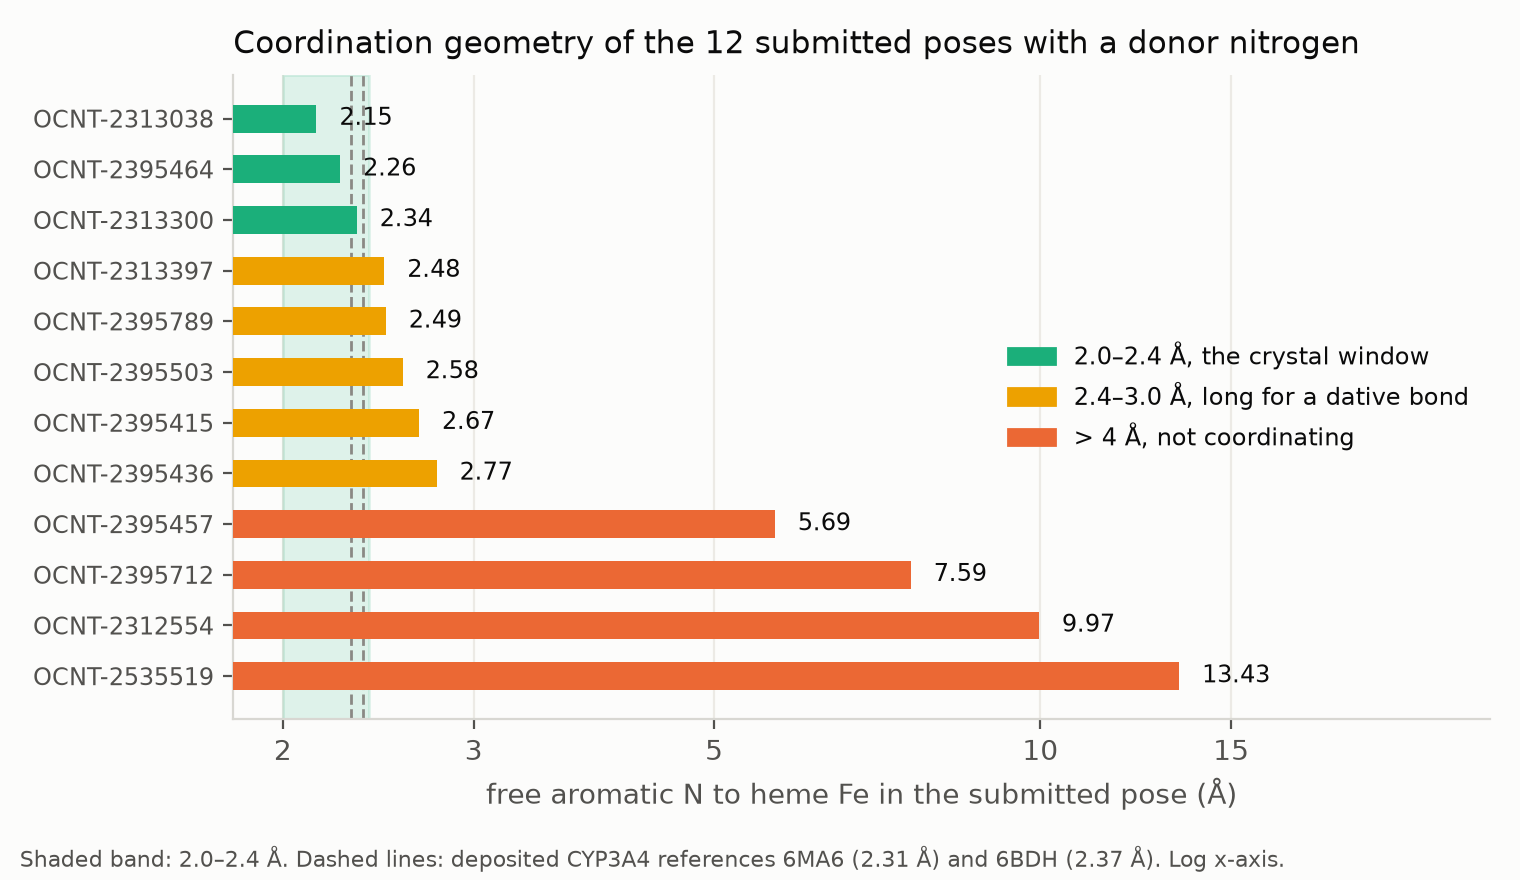
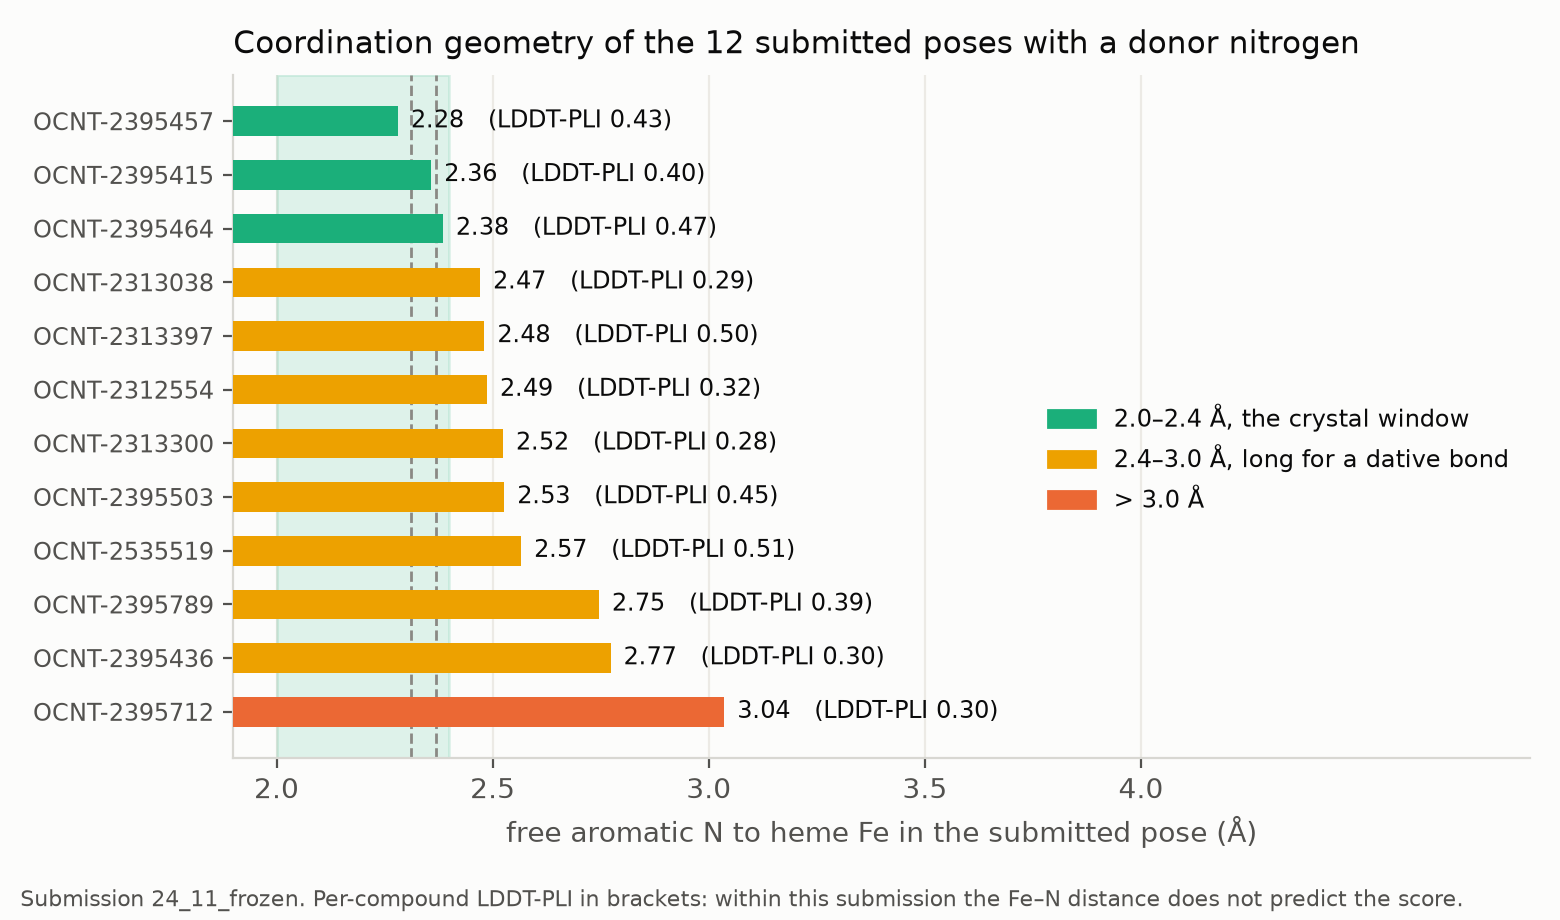
Final leaderboard results for all three tracks
The challenge closed 2026-11-03 and the final boards were released
2026-11-04, restricted to entrants who filed a method report.

  regression      MA-ST-RAE 0.4593   rank 35/103   Tier 9 of 29
  classification  MA-MCC    0.3232   rank 32/62    Tier 3 of 5
  pose            LDDT-PLI  0.3608   rank 34/38    Tier 2 of 4

Where the reports previously quoted 0.4749 and 0.3846, those were the
interim-subset scorings of the same predictions; the final board scores
the full 750-compound test set. Both reports now say so explicitly.

pose.md is updated for the submission that was actually final,
24_11_frozen rather than 24_9_manual: POSIT re-run on 7UFB alone at 50
poses per compound (951 poses), visually selected, with OCNT-2395712
taken from 6MA7. Section 8's residue counts and Fe-N range are
re-measured from the submitted file, and figure 3 is regenerated from it.

New section 10 reports the main finding. Across four submissions from
overlapping pools differing only in selection rule, two independent
rounds of careful visual inspection both scored BELOW an automated
one-line geometric rule:

  24_4_posit_feN  automated Fe-N          0.3939
  24_11_frozen    manual, 951 poses       0.3381 live / 0.3608 final
  24_9_manual     manual, 2346 poses      0.3287
  24_5_prob       POSIT probability       0.2894

Also records per-compound results reconstructed from the head-to-head
endpoint (20 compounds x 38 entrants): rank 1 of 38 on OCNT-2312966, the
[…]

diff --git a/pose.md b/pose.md
@@ -1,6 +1,8 @@
 # CYP3A4 structure prediction — protein–ligand pose
 
-**Submission:** `24_9_manual_structures.zip`
+**Submission:** `24_11_frozen_structures.zip`
+**Final score:** LDDT-PLI **0.3608**, BiSyRMSD 4.4045 Å, LDDT-LP 0.8308, Coverage 1.0 — rank
+**34 / 38**, Tier 2 of 4.
 **Author:** Jamal Shamsara
 
 ---
@@ -156,33 +158,38 @@ ligands), with `7UFB`, `6BDH` and `6DAA` in the good group in 9–10 of 10 folds
 
 ### 6.1 The submitted selection
 
-For the final submission, all 2,346 poses in the three good receptors were inspected
-**visually**, one PyMOL session per receptor, with every pose of every compound presented as a
-state and the measured Fe–N geometry available alongside. The final pose for each compound was
-chosen by eye against the criteria in §7, not by a score.
+The submitted poses come from a final round in which POSIT was re-run on **7UFB alone** at
+**50 poses per compound** for all 20 compounds — 951 poses, correct protonation throughout,
+no Vina. Deeper sampling of one good receptor turned out to beat the whole ten-receptor,
+ten-pose pool for several compounds: `OCNT-2312554` improved from 3.00 Å to 2.49 Å and
+`OCNT-2395436` from 2.76 Å to 2.41 Å, and eleven of twelve donors reached ≤2.49 Å in 7UFB
+alone. The earlier pools were **sampling-limited, not receptor-limited** — a result worth
+stating because multi-receptor ensemble docking is usually motivated by the opposite
+assumption.
+
+Poses were inspected visually in PyMOL. For compounds with a free aromatic nitrogen the
+session showed only poses whose nitrogen lay within 4.0 Å of the iron; for the eight with no
+donor it showed all 50. One compound, `OCNT-2395712`, reached only 7.59 Å in 7UFB across 48
+poses and was re-docked into `6MA6` and `6MA7` — the two receptors whose crystal ligands are
+themselves coordinating azoles — where all nine returned poses came from POSIT's
+template-biased HYBRID engine, the only place in this work where its template machinery
+engaged.
 
 ![Coordination geometry of the submitted poses](figures/fig3_pose_feN.png)
 
 | | |
 |---|---|
-| Receptors used | `7UFB` ×16, `6DAA` ×4 |
-| Engines | POSIT ×19, Vina ×1 |
-| Compounds with a donor N | 12 |
+| Receptors used | `7UFB` ×19, `6MA7` ×1 |
+| Engine | POSIT only |
+| Compounds with a donor N | 12, **all coordinating**, Fe–N 2.28–3.04 Å |
 | …in the 2.0–2.4 Å crystal window | 3 |
-| …within 2.6 Å | 6 |
 
-Four compounds with an available donor nitrogen were deliberately placed non-coordinating
-(5.7–13.4 Å). For two of them (`OCNT-2312554`, `OCNT-2395712`) no pose in the pool reaches the
-crystal window at all — their best is 3.00 Å and 2.74 Å, and the 1,2,3-triazole of the latter
-is the weakest donor class present (triazolium pKa ≈ 1.2 against ≈5.2 for pyridinium). For the
-other two, coordinating poses exist in the pool but were judged, on inspection, to be
-geometrically poor in other respects. This is a departure from the rule validated in §6 and is
-reported as such.
-
-One substitution was made after the manual selection: `OCNT-2313300` state 9 in `7UFB` failed
-PoseBusters' `minimum_distance_to_organic_cofactors` — the ligand pressed into the porphyrin —
-and was replaced by state 5 of the same receptor (Fe–N 2.34 Å), chosen from the
-PoseBusters-clean alternatives.
+Two substitutions were forced by the PoseBusters gate and are recorded in the selection
+sheet. `OCNT-2313300` state 9 in 7UFB pressed into the porphyrin and was replaced by state 5
+(2.34 Å). For `OCNT-2395712`, **eight of its nine poses failed** — every pose shorter than
+3.04 Å reached the iron only by pushing the scaffold into the porphyrin — so the single clean
+pose at 3.04 Å was used. That compound does not properly coordinate, but the reason is steric
+rather than electronic: the scaffold cannot reach the axial site without a violation.
 
 Each chosen pose was recombined with **its own** receptor's protein and heme, never with a
 common reference frame, because a pose generated in one receptor and written into another is
@@ -224,12 +231,12 @@ stacking flat against the porphyrin, which no deposited structure in this panel 
 | Structures present | 20, none missing or unexpected |
 | Protein sequence | **0 mismatches** against UniProt P08684 over the resolved range |
 
-The complexes carry 462 resolved residues (`7UFB`, 16 files) or 450 (`6DAA`, 4 files), numbered
-27–497 — the standard N-terminally truncated CYP3A4 construct — and every resolved residue
-matches UniProt P08684.
+The complexes carry 462 resolved residues (19 files, `7UFB`) or 463 (1 file, `6MA7`),
+numbered 26/27–497 — the standard N-terminally truncated CYP3A4 construct — and every
+resolved residue matches UniProt P08684.
 
-Fe–N contacts at 2.15–2.77 Å pass `minimum_distance_to_inorganic_cofactors` — PoseBusters does
-not treat genuine coordination as a clash.
+Fe–N contacts at 2.28–3.04 Å pass `minimum_distance_to_inorganic_cofactors` — PoseBusters
+does not treat genuine coordination as a clash.
 
 One packaging detail is worth recording for other entrants: the validator reads the ligand
 back and matches it to the expected SMILES with RDKit's
@@ -243,12 +250,90 @@ reproducible.
 
 - The receptor panel is effectively three distinct structures, not ten (§3), which caps what
   multi-receptor docking can contribute.
-- POSIT's template machinery never engaged on these ligands (§5), so most poses come from
-  template-free search — the component of POSIT with the least advantage over any other docking
-  program.
+- POSIT's template machinery barely engaged (§5), so most poses come from template-free
+  search — the component of POSIT with the least advantage over any other docking program.
+  The one exception is instructive: in `6MA6`/`6MA7`, whose crystal ligands are themselves
+  coordinating azoles, every returned pose came from the template-biased HYBRID engine.
 - No deposited CYP3A4 complex contains a nitrile ligand, so nitrile coordination has no
   template and no yardstick. A constructed ideal nitrile pose is sterically feasible in the
   roomier receptors, but no docked pose approaches it; in any case all three nitrile-bearing
   compounds also carry a pyridine nitrogen, which is the better donor, so the question is moot
   for this set.
-- Four compounds depart from the blind-validated coordination rule (§6.1).
+- One compound, `OCNT-2395712`, is submitted non-coordinating at 3.04 Å because its eight
+  shorter poses all fail PoseBusters (§6.1).
+- Selection remained the bottleneck throughout, and the final selection was made by eye —
+  which §10.1 shows was the wrong choice.
+
+
+---
+
+## 10. Final result, and the main finding
+
+**LDDT-PLI 0.3608, rank 34 / 38, Tier 2 of 4.** Coverage 1.0, so no structure was zeroed.
+
+### 10.1 Expert visual selection lost to a one-line geometric rule
+
+Four submissions were made from overlapping pose pools, differing only in how the pose was
+chosen:
+
+| submission | selection rule | LDDT-PLI |
+|---|---|---|
+| `24_4_posit_feN` | **automated: shortest free aromatic N to Fe** | **0.3939** |
+| `24_11_frozen` | manual visual, 951 poses, 7UFB | 0.3381 live / 0.3608 final |
+| `24_9_manual` | manual visual, 2,346 poses, 3 receptors | 0.3287 |
+| `24_5_prob` | POSIT probability alone | 0.2894 |
+
+Two independent rounds of careful visual inspection — by a medicinal chemist, with measured
+Fe–N distances, crystal references and PoseBusters verdicts to hand — both scored **below** a
+rule that fits on one line. This was not the result we expected and it is the most useful
+thing the track produced.
+
+The top and bottom rows form a controlled A/B over the same pose pool with one variable
+changed, isolating coordination geometry at **+0.1045 LDDT-PLI**. We are not aware of many
+prospective, blind tests of a pose-selection heuristic at this granularity.
+
+A caveat on the comparison: `24_4` was scored only on the live board and `24_11` on both, and
+the two scorings differ (`24_11` moved 0.3381 → 0.3608 for an identical file). The ranking of
+the four is robust to that shift, but the exact gap is not.
+
+### 10.2 Per-compound results
+
+The challenge's head-to-head endpoint exposes per-compound LDDT-PLI, so the full
+20 × 38 matrix is reconstructible. We placed in the field's top two on three compounds:
+
+| compound | ours | field median | field best | rank | donor N |
+|---|---|---|---|---|---|
+| `OCNT-2312966` | **0.6183** | 0.2128 | **0.6183** | **1 / 38** | no |
+| `OCNT-2313397` | 0.5048 | 0.4138 | 0.5069 | 2 / 38 | yes, 2.48 Å |
+| `OCNT-2535519` | 0.5082 | 0.3464 | 0.5288 | 2 / 38 | yes, 2.57 Å |
+
+`OCNT-2312966` — the 2-oxindole with no coordinating nitrogen, and the compound the field
+found hardest of all twenty — received the best pose anyone submitted. Three top-two finishes
+against an expectation of 1.05 gives p = 0.085, which is suggestive and not significant.
+
+We were in the bottom decile on five compounds, so there is no class of pose on which we
+outperformed as a group: both we and the field score higher on type-II-capable compounds than
+on the rest, and our margin behind the winner is *larger* on the type-II compounds
+(−0.151) than on the others (−0.077).
+
+### 10.3 A pattern we checked and rejected
+
+Our per-compound percentile correlates at **−0.527 (p = 0.017)** with how well the field did
+on each compound — the most negative value among all 38 entrants, with only 2 of 38 reaching
+significance. The natural reading is that a rigid geometric rule is relatively stronger where
+template-driven methods struggle.
+
+**We do not believe it.** Across entrants, mean score and that correlation are themselves
+related at +0.520 (p = 0.0008): any below-average entrant gets a negative value
+automatically, because scoring flatly ranks better where everyone scores low. Our standard
+deviation across compounds is 4th lowest of 38, but mean and SD correlate at +0.615 across
+entrants and our coefficient of variation is unremarkable. Selecting the most extreme of 38
+entrants also makes p = 0.017 roughly what chance would produce. Reported because the
+analysis was done, and the negative conclusion is the useful part.
+
+### 10.4 Ground truth
+
+The blinded Cryo-EM structures have not been released. The five CYP3A4 cryo-EM entries in the
+PDB (`38FU`, `38FV`, `38FW`, `38FX`, `38FY`) were released 2026-09-30, before the challenge
+closed, and are ritonavir, ketoconazole, azamulin and vardenafil complexes. Candidate
+submissions that were built and gated but not uploaded therefore cannot be scored.

diff --git a/classification.md b/classification.md
@@ -1,7 +1,8 @@
 # Time-dependent inhibition — binary classification
 
 **Submission:** `10_25_majority_vote_classification_submission.csv`
-**Blind score:** macro-averaged MCC **0.3846** (CYP2D6 **0.3528**, CYP3A4 **0.4164**)
+**Final score:** macro-averaged MCC **0.3232**, rank **32 / 62**, Tier 3 of 5.
+(The 0.3846 quoted during the challenge was the interim-subset scoring of the same file.)
 **Author:** Jamal Shamsara
 
 ---
@@ -155,3 +156,29 @@ An overfitting guard rejected any configuration with `(train − CV) / train > 0
 - Feature sets and fitted preprocessors were frozen before modelling and reused unchanged.
 - Each voter's provenance — model, feature variant, target rate, achieved rate and threshold —
   is recorded per endpoint, and the blind score written back once known.
+
+
+---
+
+## 8. Final result
+
+| endpoint | rank | MCC | Accuracy | Precision | Recall | F1 |
+|---|---|---|---|---|---|---|
+| CYP3A4_is_TDI | 36 / 62 | 0.4289 | 0.7623 | 0.6297 | 0.5642 | 0.5946 |
+| CYP2D6_is_TDI | 30 / 62 | 0.2175 | 0.9210 | 0.2903 | 0.2323 | 0.2557 |
+| **overall** | **32 / 62** | **0.3232** | 0.8416 | 0.4600 | 0.3982 | 0.4251 |
+
+Tiers 1 and 2 hold 3 and 27 entrants, so 30 are above us and we are statistically
+indistinguishable from the 26 others sharing Tier 3 — the middle of the field.
+
+**On the two different numbers.** The live board reported 0.3846 and the final board reports
+0.3232 for the same predictions: 0.3846 was the interim subset, 0.3232 the full 750
+compounds. The regression track moved the same way for the same reason. Comparing across the
+two scorings is meaningless.
+
+**CYP2D6_is_TDI stays the weak endpoint** at MCC 0.2175 with recall 0.23 — the designed
+consequence of rate-matching a 6.7% target prevalence onto a 21.6%-positive training set
+(§2), which buys precision and accuracy (0.921) at recall's expense. A TabPFN null
+experiment had already shown this endpoint to be feature-limited rather than model-limited,
+with local AUC 0.54–0.61 across every estimator family tried, so the ceiling is in the
+representation.

diff --git a/regression.md b/regression.md
@@ -1,8 +1,8 @@
 # Direct CYP inhibition — pIC50 regression
 
 **Submission:** `25_0_per_endpoint_best_regression_submission.csv`
-**Blind score:** macro-averaged ST-RAE **0.4749** across the four endpoints; the same
-predictions rescored on the full 750-compound reveal gave **0.4593**.
+**Final score:** macro-averaged ST-RAE **0.4593**, rank **35 / 103**, Tier 9 of 29.
+(The 0.4749 quoted during the challenge was the interim-subset scoring of the same file.)
 **Author:** Jamal Shamsara
 
 ---
@@ -170,3 +170,26 @@ results can mean.
   and reused unchanged, so that submissions remain comparable to one another.
 - Every submission is logged with its algorithm, hyperparameters, descriptor set and internal
   metrics, and the blind score was written back against the same row once known.
+
+
+---
+
+## 8. Final result
+
+| endpoint | rank | ST-RAE | MAE | R² | Spearman ρ | Kendall τ |
+|---|---|---|---|---|---|---|
+| **CYP2D6** | **21 / 103** | 0.5761 | 1.0007 | 0.3818 | 0.5129 | 0.3596 |
+| CYP1A2 | 27 / 103 | 0.4207 | 0.6812 | 0.6304 | 0.8227 | 0.6267 |
+| CYP3A4 | 41 / 103 | 0.4007 | 0.4990 | 0.7229 | 0.8591 | 0.6777 |
+| CYP2C9 | 52 / 103 | 0.4398 | 0.5311 | 0.6282 | 0.8221 | 0.6337 |
+| **overall** | **35 / 103** | **0.4593** | 0.6780 | 0.5908 | 0.7542 | 0.5744 |
+
+The endpoint ordering is the informative part. **CYP2D6 places best (21 / 103)** and is the
+endpoint the whole field finds hardest — field median ST-RAE 0.712, against 0.440–0.518 for
+the other three. It is also the endpoint that resisted every architectural and
+feature-engineering change we tried and moved only when censored negatives from the external
+PubChem qHTS panel were added as supervision on the scored heads (§4.2, §6). CYP2C9, which
+the field finds comparatively easy, is where we place worst.
+
+In absolute terms this is a relative-placement result, not a competitive one: we are 0.141
+behind the CYP2D6 field best and 0.155 behind on CYP2C9.

diff --git a/README.md b/README.md
@@ -4,11 +4,17 @@ Method reports for the three submission tracks.
 
 **Author:** Jamal Shamsara
 
-| Track | Report | Submitted file | Blind score |
-|---|---|---|---|
-| Direct inhibition (regression) | [**regression.md**](regression.md) | `25_0_per_endpoint_best_regression_submission.csv` | MA-ST-RAE **0.4749** (**0.4593** on the full 750-compound reveal) |
-| Time-dependent inhibition (classification) | [**classification.md**](classification.md) | `10_25_majority_vote_classification_submission.csv` | MA-MCC **0.3846** |
-| CYP3A4 structure prediction (pose) | [**pose.md**](pose.md) | `24_9_manual_structures.zip` | pending |
+**Final results** (leaderboard released 2026-11-04, restricted to entrants with a method report):
+
+| Track | Report | Submitted file | Final score | Rank |
+|---|---|---|---|---|
+| Direct inhibition (regression) | [**regression.md**](regression.md) | `25_0_per_endpoint_best_regression_submission.csv` | MA-ST-RAE **0.4593** | 35 / 103 |
+| Time-dependent inhibition (classification) | [**classification.md**](classification.md) | `10_25_majority_vote_classification_submission.csv` | MA-MCC **0.3232** | 32 / 62 |
+| CYP3A4 structure prediction (pose) | [**pose.md**](pose.md) | `24_11_frozen_structures.zip` | LDDT-PLI **0.3608** | 34 / 38 |
+
+Where an earlier version of these reports quoted a different number (regression 0.4749,
+classification 0.3846), that was the interim-subset scoring of the same predictions; the
+final board scores the full 750-compound test set.
 
 Each report describes the **single best-scoring submission** for its track, not the full
 exploration behind it. Where a number is quoted it is the organisers' own blind score unless
